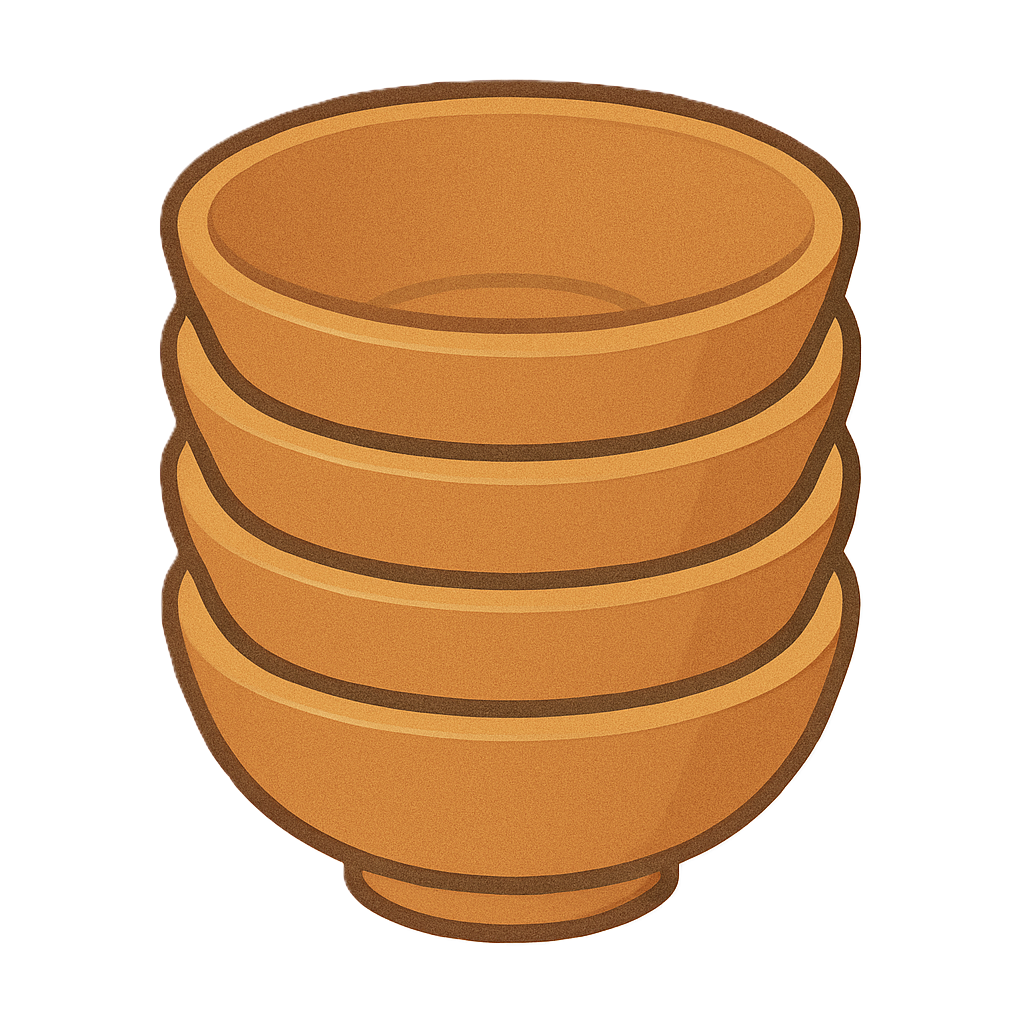
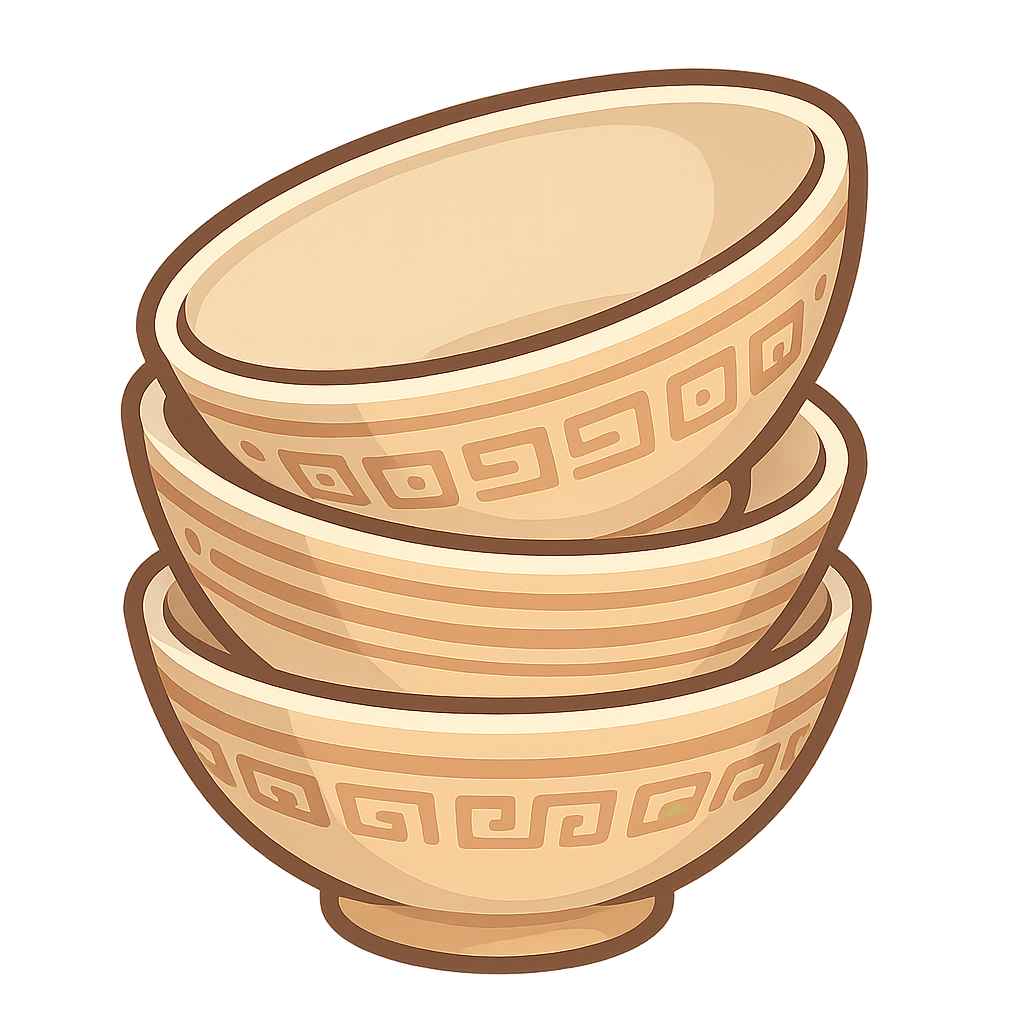
elements and update

diff --git a/main.cpp b/main.cpp
@@ -7,6 +7,7 @@
 #include "utils.h"
 #include "sound.h"
 #include "imageTexture.h"
+#include "element.h"
 
 int main(int argc, char* argv[]) {
     if (SDL_Init(SDL_INIT_VIDEO) < 0) {
@@ -26,12 +27,16 @@ int main(int argc, char* argv[]) {
     const ImageTexture& bgTexture       = getImage(ImageId::bg);
     const ImageTexture& counterTexture  = getImage(ImageId::counter_surface);
     const ImageTexture& burnerTexture   = getImage(ImageId::burner);
-    const ImageTexture& ramenPkgTexture = getImage(ImageId::ramenPkg);
-    const ImageTexture& sinkTexture     = getImage(ImageId::sink);
-    const ImageTexture& binTexture      = getImage(ImageId::bin);
-    const ImageTexture& bowlsTexture    = getImage(ImageId::bowls);
     const ImageTexture& customerTexture = getImage(ImageId::customer);
-    const ImageTexture& emptyPotTexture = getImage(ImageId::empty_pot);
+
+    Element all[] = {{pkgRect, ImageId::ramenPkg, updateFunc::fromFunction<updateSideBarFixItem>()},
+                     {sinkRect, ImageId::sink, updateFunc::fromFunction<updateSideBarFixItem>()},
+                     {binRect, ImageId::bin, updateFunc::fromFunction<updateSideBarFixItem>()},
+                     {bowlsRect, ImageId::bowls, updateFunc::fromFunction<updateSideBarFixItem>()},
+                     {potToolRect, ImageId::empty_pot, updateFunc::fromFunction<updateSideBarFixItem>()},
+                     {pkgRect, ImageId::ramenPkg, updateFunc::fromFunction<updateCookingItem>(), false},
+                     {bowlsRect, ImageId::empty_bowl, updateFunc::fromFunction<updateCookingItem>(), false},
+                     {potToolRect, ImageId::empty_pot, updateFunc::fromFunction<updateCookingItem>(), false}};
 
     bool quit = false;
     SDL_Event e;
@@ -47,9 +52,12 @@ int main(int argc, char* argv[]) {
             if (e.type == SDL_EVENT_QUIT) {
                 quit = true;
                 break;
-            } else {
+            } else if (isMouse(e)) {
                 if (e.type == SDL_EVENT_MOUSE_BUTTON_DOWN) {
                     pot1.handleMouseDown(mousePoint);
+                }
+                for (Element& elem : all) {
+                    elem.update(elem, mousePoint, e.type);
                 }
             }
         }
@@ -58,42 +66,18 @@ int main(int argc, char* argv[]) {
 
         // Draw background
         bgTexture.show(renderer, bgDst);
-        // Draw customer
-        customerTexture.show(renderer, custRect);
+        customerTexture.show(renderer, custFRect);
         counterTexture.show(renderer, counterRect);
         burnerTexture.show(renderer, burnerDst);
 
         pot1.show(renderer);
 
         // Draw ramen package, sink
-        if (SDL_PointInRect(&mousePoint, &pkgRect)) {
-            ramenPkgTexture.show(renderer, enlarge(pkgFRect));
-        } else {
-            ramenPkgTexture.show(renderer, pkgFRect);
-        }
-
-        if (SDL_PointInRect(&mousePoint, &sinkRect)) {
-            sinkTexture.show(renderer, enlarge(sinkFRect));
-        } else {
-            sinkTexture.show(renderer, sinkFRect);
-        }
-
-        if (SDL_PointInRect(&mousePoint, &binRect)) {
-            binTexture.show(renderer, enlarge(binFRect));
-        } else {
-            binTexture.show(renderer, binFRect);
-        }
-
-        if (SDL_PointInRect(&mousePoint, &bowlsRect)) {
-            bowlsTexture.show(renderer, enlarge(bowlsFRect));
-        } else {
-            bowlsTexture.show(renderer, bowlsFRect);
-        }
-
-        if (SDL_PointInRect(&mousePoint, &potToolRect)) {
-            emptyPotTexture.show(renderer, enlarge(potToolFRect));
-        } else {
-            emptyPotTexture.show(renderer, potToolFRect);
+        for (const Element& elem : all) {
+            if (elem.visible) {
+                const ImageTexture& img = getImage(elem.id);
+                img.show(renderer, elem.fpos, elem.ratio, elem.angle);
+            }
         }
 
         renderer.update();

diff --git a/imageTexture.cpp b/imageTexture.cpp
@@ -8,37 +8,38 @@ ImageTexture::~ImageTexture() {
     SDL_DestroySurface(m_surface);
 }
 
-void ImageTexture::show(const Renderer& renderer, const SDL_FRect& rect) const {
+void ImageTexture::show(const Renderer& renderer, const SDL_FRect& rect, float ratio, double angle) const {
     if (!m_texture) {
         m_texture = renderer.loadTexture(m_surface);
     }
 
     if (m_texture) {
-        renderer.renderTexture(m_texture, rect);
+        renderer.renderTexture(m_texture, rect, ratio, angle);
     }
 }
 
-const ImageTexture& getImage(ImageId id) {
-    static ImageTexture defaultTexture{"assets/undefined.png"};
-    static ImageTexture imageMap[] = {{"assets/bg2areasMoreOp.png"},
-                                      {"assets/sink.png"},
-                                      {"assets/sink_water_running.png"},
-                                      {"assets/ramen_pkg.png"},
-                                      {"assets/bowls.png"},
-                                      {"assets/trash_bin_closed.png"},
-                                      {"assets/trash_bin_open.png"},
-                                      {"assets/counter_surface_lean.png"},
-                                      {"assets/burner.png"},
-                                      {"assets/pot_empty.png"},
-                                      {"assets/pot_with_water.png"},
-                                      {"assets/pot_with_boiling_water.png"},
-                                      {"assets/pot_with_ramen_uncooked.png"},
-                                      {"assets/pot_with_ramen_halfcooked.png"},
-                                      {"assets/pot_with_ramen_halfcooked1.png"},
-                                      {"assets/pot_with_ramen_cooked.png"},
-                                      {"assets/pot_with_ramen_burnt.png"},
-                                      {"assets/customer_fox.png"}};
+static ImageTexture defaultTexture{"assets/undefined.png"};
+static ImageTexture imageMap[] = {{"assets/bg2areasMoreOp.png"},
+                                  {"assets/sink.png"},
+                                  {"assets/sink_water_running.png"},
+                                  {"assets/ramen_pkg.png"},
+                                  {"assets/bowls.png"},
+                                  {"assets/empty_bowl.png"},
+                                  {"assets/trash_bin_closed.png"},
+                                  {"assets/trash_bin_open.png"},
+                                  {"assets/counter_surface_lean.png"},
+                                  {"assets/burner.png"},
+                                  {"assets/pot_empty.png"},
+                                  {"assets/pot_with_water.png"},
+                                  {"assets/pot_with_boiling_water.png"},
+                                  {"assets/pot_with_ramen_uncooked.png"},
+                                  {"assets/pot_with_ramen_halfcooked.png"},
+                                  {"assets/pot_with_ramen_halfcooked1.png"},
+                                  {"assets/pot_with_ramen_cooked.png"},
+                                  {"assets/pot_with_ramen_burnt.png"},
+                                  {"assets/customer_fox.png"}};
 
+const ImageTexture& getImage(ImageId id) {
     if (static_cast<size_t>(id) < static_cast<size_t>(ImageId::last)) {
         return imageMap[static_cast<size_t>(id)];
     }

diff --git a/element.cpp b/element.cpp
@@ -1,0 +1,56 @@
+#include "element.h"
+
+void updateSideBarFixItem(Element& elem, const SDL_Point& mouse, uint32_t type) noexcept {
+    switch (elem.act) {
+    case Interaction::undefined: {
+        if (SDL_PointInRect(&mouse, &elem.pos)) {
+            elem.act   = Interaction::hover;
+            elem.ratio = 1.2f;
+        }
+    } break;
+    case Interaction::hover: {
+        if (!SDL_PointInRect(&mouse, &elem.pos)) {
+            elem.ratio = 1.f;
+            elem.act   = Interaction::undefined;
+        }
+    } break;
+    default:
+        break;
+    }
+}
+
+void updateCookingItem(Element& elem, const SDL_Point& mouse, uint32_t type) noexcept {
+    switch (elem.act) {
+    case Interaction::undefined: {
+        if (SDL_PointInRect(&mouse, &elem.pos)) {
+            if (type == SDL_EVENT_MOUSE_BUTTON_DOWN) {
+                elem.act = Interaction::down;
+            }
+        }
+    } break;
+    case Interaction::down: {
+        if (SDL_PointInRect(&mouse, &elem.pos)) {
+            if (type == SDL_EVENT_MOUSE_BUTTON_UP) {
+                elem.act     = Interaction::click;
+                elem.visible = true;
+                elem.fpos    = SDL_FRect{mouse.x - elem.pos.w * 0.5f, mouse.y - elem.pos.h * 0.5f,
+                                      static_cast<float>(elem.pos.w), static_cast<float>(elem.pos.h)};
+            } else {
+                elem.act = Interaction::undefined;
+            }
+        }
+    } break;
+    case Interaction::click: {
+        if ((type == SDL_EVENT_MOUSE_BUTTON_DOWN)) {
+            elem.visible = false;
+            elem.fpos    = to_frect(elem.pos);
+            elem.act     = Interaction::undefined;
+        } else {
+            elem.fpos = SDL_FRect{mouse.x - elem.pos.w * 0.5f, mouse.y - elem.pos.h * 0.5f,
+                                  static_cast<float>(elem.pos.w), static_cast<float>(elem.pos.h)};
+        }
+    } break;
+    default:
+        break;
+    }
+}

diff --git a/element.h b/element.h
@@ -1,0 +1,54 @@
+#pragma once
+#include <SDL3/SDL.h>
+#include "imageTexture.h"
+#include "delegate.h"
+#include <algorithm>
+#include <cmath>
+#include <limits>
+
+inline constexpr SDL_FRect to_frect(const SDL_Rect& r) noexcept {
+    return SDL_FRect{static_cast<float>(r.x), static_cast<float>(r.y), static_cast<float>(r.w),
+                     static_cast<float>(r.h)};
+}
+
+inline SDL_Rect frect_round(const SDL_FRect& r) noexcept {
+    auto lr = [](float v) { return static_cast<int>(std::lround(v)); };
+    return SDL_Rect{lr(r.x), lr(r.y), std::max(0, lr(r.w)), std::max(0, lr(r.h))};
+}
+
+struct Element;
+using updateFunc = Delegate<void(Element& elem, const SDL_Point& mouse, uint32_t type)>;
+
+enum class Interaction { undefined, hover, down, click };
+
+struct Element {
+    Element(SDL_Rect rect, ImageId imId, updateFunc&& func, bool defaultVisible = true)
+        : pos(rect)
+        , fpos(to_frect(pos))
+        , angle(0.0)
+        , id(imId)
+        , act(Interaction::undefined)
+        , visible(defaultVisible)
+        , update(std::move(func)) {}
+
+    Element(SDL_FRect rect, ImageId imId, updateFunc&& func, bool defaultVisible = true)
+        : pos(frect_round(rect))
+        , fpos(rect)
+        , angle(0.0)
+        , id(imId)
+        , act(Interaction::undefined)
+        , visible(defaultVisible)
+        , update(std::move(func)) {}
+
+    SDL_Rect pos;
+    SDL_FRect fpos;
+    float ratio = 1.f;
+    double angle;
+    ImageId id;
+    Interaction act;
+    bool visible = true;
+    updateFunc update;
+};
+
+void updateSideBarFixItem(Element& elem, const SDL_Point& mouse, uint32_t type) noexcept;
+void updateCookingItem(Element& elem, const SDL_Point& mouse, uint32_t type) noexcept;

diff --git a/ui.h b/ui.h
@@ -2,7 +2,7 @@
 #include <SDL3/SDL.h>
 #include <algorithm>
 
-bool isMouseButtonMovement(const SDL_Event& e) noexcept;
+bool isMouse(const SDL_Event& e) noexcept;
 
 SDL_FRect enlarge(const SDL_FRect& orig, float ratio = 1.2f) noexcept;
 
@@ -14,8 +14,8 @@ constexpr SDL_FRect bgDst = {0, 0, (float)SCREEN_WIDTH, (float)SCREEN_HEIGHT};
 constexpr float counterHeight   = SCREEN_HEIGHT * 0.4f;
 constexpr SDL_FRect counterRect = {0, counterHeight, SCREEN_WIDTH, 0.12f * SCREEN_HEIGHT};
 
-constexpr float cusSize      = SCREEN_WIDTH * 0.2f;
-constexpr SDL_FRect custRect = {SCREEN_WIDTH * 0.1f, counterHeight - 0.8f * cusSize, cusSize, cusSize};
+constexpr float cusSize       = SCREEN_WIDTH * 0.2f;
+constexpr SDL_FRect custFRect = {SCREEN_WIDTH * 0.1f, counterHeight - 0.8f * cusSize, cusSize, cusSize};
 
 constexpr float columnX            = SCREEN_WIDTH * 0.85f;
 constexpr float columnFirstY       = SCREEN_HEIGHT * 0.8f;

diff --git a/renderer.cpp b/renderer.cpp
@@ -34,8 +34,9 @@ SDL_Texture* Renderer::loadTexture(SDL_Surface* surf) const {
     return tex;
 }
 
-void Renderer::renderTexture(SDL_Texture* tex, const SDL_FRect& rect) const {
-    if (!SDL_RenderTexture(m_renderer, tex, nullptr, &rect)) {
+void Renderer::renderTexture(SDL_Texture* tex, const SDL_FRect& rect, float ratio, double angle) const {
+    auto rec = enlarge(rect, ratio);
+    if (!SDL_RenderTextureRotated(m_renderer, tex, nullptr, &rec, angle, nullptr, SDL_FLIP_NONE)) {
         std::cerr << __func__ << " failed: " << SDL_GetError() << "\n";
     }
 }

diff --git a/imageTexture.h b/imageTexture.h
@@ -16,7 +16,7 @@ public:
     ImageTexture& operator=(ImageTexture&&)      = default;
     ImageTexture& operator=(const ImageTexture&) = delete;
 
-    void show(const Renderer& renderer, const SDL_FRect& rect) const;
+    void show(const Renderer& renderer, const SDL_FRect& rect, float ratio = 1.f, double angle = 0.0) const;
 
 private:
     SDL_Surface* m_surface         = nullptr;
@@ -29,6 +29,7 @@ enum class ImageId {
     sink_running_water,
     ramenPkg,
     bowls,
+    empty_bowl,
     bin,
     bin_open,
     counter_surface,

diff --git a/delegate.h b/delegate.h
@@ -5,7 +5,7 @@ class Delegate {};
 
 template <typename R, typename... Args>
 class Delegate<R(Args...)> final {
-    using StubType = R (*)(void*, Args...);
+    using StubType = R (*)(void*, Args&&...);
 
 public:
     template <R (*Func)(Args...)>
@@ -22,6 +22,8 @@ public:
     static Delegate fromMethod(const T* obj) {
         return Delegate(obj, constMethodStub<T, Method>);
     }
+
+    R operator()(Args... args) { return m_func(m_obj, std::forward<Args>(args)...); }
 
 private:
     template <R (*Func)(Args...)>

diff --git a/renderer.h b/renderer.h
@@ -13,7 +13,7 @@ public:
     SDL_Texture* loadTexture(const char* path) const;
     SDL_Texture* loadTexture(SDL_Surface* surf) const;
 
-    void renderTexture(SDL_Texture* tex, const SDL_FRect& rect) const;
+    void renderTexture(SDL_Texture* tex, const SDL_FRect& rect, float ratio = 1.f, double angle = 0.0) const;
 
     void fillRect(const SDL_FRect& rect, Uint8 r, Uint8 g, Uint8 b, Uint8 a) const;
 

diff --git a/ui.cpp b/ui.cpp
@@ -1,6 +1,6 @@
 #include "ui.h"
 
-bool isMouseButtonMovement(const SDL_Event& e) noexcept {
+bool isMouse(const SDL_Event& e) noexcept {
     return (e.type >= SDL_EVENT_MOUSE_MOTION) && (e.type <= SDL_EVENT_MOUSE_BUTTON_UP);
 }
 
